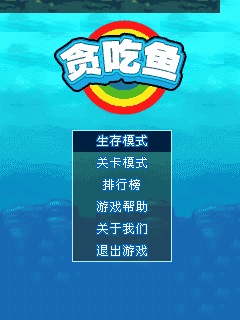
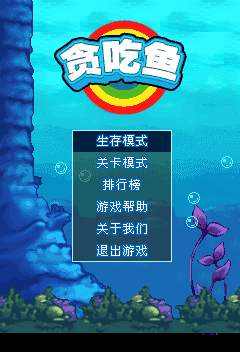
Fix sprite alpha ABI: pitch-strided planes and raw alpha (#171)
The guest sprite blitter advances both image planes by the rounded-up
pitch minus the width at each row break, but decoded kind-3 images
stored their color and alpha planes tight-packed. Every transparent
sprite whose width is not a multiple of four sheared progressively per
row, which painted the Vampire Hunter battle lights as hard-edged
rectangles and stripes and left opaque black squares behind shots. The
16-pixel-multiple sprites of the #187 penguin hid the mismatch.

Decoded alpha was also quantized to 0/255 while the blitter blends the
full 0-255 range through its 5-bit level table, so soft light and
shadow gradients rendered as binary cutouts and fully transparent glow
sprites fell back to opaque color-key blits.

Store both planes pitch-strided, hand over raw alpha bytes, and mirror
the guest blend semantics in the host alpha blit (level
(a*32+128)>>8, packed 565 interpolation). The penguin layout for
width%4==0 and binary-alpha sources is unchanged.

diff --git a/crates/coolbaremu-core/src/machine/drawing.rs b/crates/coolbaremu-core/src/machine/drawing.rs
@@ -1504,7 +1504,9 @@ impl CoolbarMachine {
         let firmware_alpha = transparent && pixel_count <= IMAGE_FIRMWARE_ALPHA_MAX_PIXELS;
         let name_bytes = image_codec_name_bytes();
         let alpha_bytes = if firmware_alpha {
-            decoded.width.saturating_mul(decoded.height)
+            // The alpha plane is pitch-strided like the color plane, so it
+            // needs pitch * height bytes, not width * height.
+            pixel_count
         } else {
             pixel_count.div_ceil(8)
         };
@@ -1544,10 +1546,15 @@ impl CoolbarMachine {
                         let blue = decoded.data[offset + 2] as u16;
                         ((red & 0xf8) << 8) | ((green & 0xfc) << 3) | (blue >> 3)
                     };
-                    let index = y * decoded.width + x;
+                    // The guest sprite blitter strides both planes by the
+                    // rounded-up pitch (it advances by pitch-width per row),
+                    // so rows must be stored pitch-strided, not tight-packed.
+                    // The blend loop quantizes raw alpha bytes through a
+                    // 5-bit level table, so the decoded alpha is handed over
+                    // unchanged instead of a hard 0/255 threshold.
+                    let index = y * pitch + x;
                     self.memory.w16(plane + index * 2, color);
-                    self.memory
-                        .w8(alpha_plane + index, if alpha < 128 { 0 } else { u8::MAX });
+                    self.memory.w8(alpha_plane + index, alpha);
                 }
             }
         } else {
@@ -1767,10 +1774,12 @@ impl CoolbarMachine {
         let kind = self.memory.r8(source + self.image_kind_offset());
         let firmware_alpha = kind == IMAGE_ALPHA_BYTE_KIND || kind == IMAGE_ALPHA_KIND_ALT;
         let name_bytes = image_codec_name_bytes();
+        // Firmware-alpha images store both planes pitch-strided, matching the
+        // guest sprite blitter's row advance (see create_image_from_bytes).
         let (source_base, source_stride, alpha_plane) = if firmware_alpha {
             (
                 source_pixels + name_bytes,
-                source_width as u32,
+                source_pitch,
                 source_pixels + name_bytes + pixel_count * 2,
             )
         } else {
@@ -1805,29 +1814,42 @@ impl CoolbarMachine {
                     ((source_y as u32 + row) * source_stride + source_x as u32 + column) * 2;
                 let color = self.memory.r16(source_base + source_offset);
                 let pixel_index = source_offset / 2;
-                let masked = if firmware_alpha {
-                    transparent
-                        && self.memory.r8(alpha_plane
-                            + (source_y as u32 + row) * source_width as u32
-                            + source_x as u32
-                            + column)
-                            < 128
-                } else {
-                    match mask_kind {
-                        IMAGE_ALPHA_TAG => self.memory.r8(mask_tag + 8 + pixel_index) != 0,
-                        IMAGE_ALPHA_BITS_TAG => {
-                            self.memory.r8(mask_tag + 8 + pixel_index / 8)
-                                & (1 << (pixel_index % 8))
-                                != 0
-                        }
-                        _ => transparent && color == 0,
+                let destination_offset = ((destination_y as u32 + row) * destination_pitch
+                    + destination_x as u32
+                    + column)
+                    * 2;
+                if firmware_alpha {
+                    // Mirror the guest blend loop: 0 skips the pixel, 255
+                    // copies it, anything between blends at the quantized
+                    // 5-bit level the guest's lookup table produces.
+                    let alpha = self.memory.r8(alpha_plane
+                        + (source_y as u32 + row) * source_pitch
+                        + source_x as u32
+                        + column);
+                    let blended = if !transparent || alpha == u8::MAX {
+                        color
+                    } else if alpha == 0 {
+                        continue;
+                    } else {
+                        blend565_with_alpha(
+                            self.memory.r16(destination_pixels + destination_offset),
+                            color,
+                            alpha,
+                        )
+                    };
+                    self.memory
+                        .w16(destination_pixels + destination_offset, blended);
+                    continue;
+                }
+                let masked = match mask_kind {
+                    IMAGE_ALPHA_TAG => self.memory.r8(mask_tag + 8 + pixel_index) != 0,
+                    IMAGE_ALPHA_BITS_TAG => {
+                        self.memory.r8(mask_tag + 8 + pixel_index / 8) & (1 << (pixel_index % 8))
+                            != 0
                     }
+                    _ => transparent && color == 0,
                 };
                 if !masked {
-                    let destination_offset = ((destination_y as u32 + row) * destination_pitch
-                        + destination_x as u32
-                        + column)
-                        * 2;
                     self.memory
                         .w16(destination_pixels + destination_offset, color);
                 }
@@ -2580,6 +2602,30 @@ mod tests {
     }
 }
 
+/// Blend an RGB565 source over a destination at an 8-bit alpha, mirroring the
+/// guest sprite blitter: the alpha is quantized to the 5-bit level its lookup
+/// table produces (level = round(alpha * 32 / 255)) and the packed green / red
+/// -blue halves are interpolated independently before being recombined.
+fn blend565_with_alpha(destination: u16, source: u16, alpha: u8) -> u16 {
+    let level = (u32::from(alpha) * 32 + 128) >> 8;
+    if level == 0 {
+        return destination;
+    }
+    if level >= 32 {
+        return source;
+    }
+    let green_mask = 0x07e0u32;
+    let red_blue_mask = 0xf81fu32;
+    let destination_packed =
+        ((u32::from(destination) & green_mask) << 16) | (u32::from(destination) & red_blue_mask);
+    let source_packed =
+        ((u32::from(source) & green_mask) << 16) | (u32::from(source) & red_blue_mask);
+    let combined = (32 - level) * destination_packed + level * source_packed;
+    let green = (combined >> 21) & green_mask;
+    let red_blue = (combined >> 5) & red_blue_mask;
+    (green | red_blue) as u16
+}
+
 #[cfg(test)]
 mod rendering_tests {
     use super::*;
@@ -3273,10 +3319,17 @@ mod alpha_storage_tests {
 
     #[test]
     fn transparent_sprites_expose_the_firmware_blitter_layout() {
+        // Row 0: transparent red, opaque red, half-alpha red. Row 1: opaque.
+        // Width 3 keeps pitch at 4, which exercises the pitch-strided rows
+        // the guest sprite blitter reads (it advances by pitch-width per row).
         let mut rgba = Vec::new();
         for y in 0..2 {
             for x in 0..3 {
-                let alpha = if (x, y) == (0, 0) { 0 } else { 255 };
+                let alpha = match (x, y) {
+                    (0, _) => 0,
+                    (2, 0) => 128,
+                    _ => 255,
+                };
                 rgba.extend_from_slice(&[255, 0, 0, alpha]);
             }
         }
@@ -3305,23 +3358,33 @@ mod alpha_storage_tests {
                 for y in 0..2 {
                     for x in 0..3 {
                         assert_eq!(
-                            machine.memory.r16(plane + (y * 3 + x) * 2),
+                            machine.memory.r16(plane + (y * pitch + x) * 2),
                             0xf800,
-                            "color plane must stay tightly packed"
+                            "color plane rows must follow the rounded-up pitch"
                         );
                     }
                 }
                 let alpha_plane = plane + 2 * pitch * 2;
                 assert_eq!(machine.memory.r8(alpha_plane), 0);
-                for index in 1..6 {
-                    assert_eq!(machine.memory.r8(alpha_plane + index), u8::MAX);
+                assert_eq!(machine.memory.r8(alpha_plane + 1), u8::MAX);
+                assert_eq!(machine.memory.r8(alpha_plane + 2), 128);
+                assert_eq!(machine.memory.r8(alpha_plane + pitch), 0);
+                for offset in 1..3 {
+                    assert_eq!(machine.memory.r8(alpha_plane + pitch + offset), u8::MAX);
                 }
-                assert_eq!(machine.allocation_size(pixels), Some(48));
                 machine.fill_screen_rect(0, 0, 3, 2, 0x001f);
                 machine.blit_image(SCREEN_IMAGE_STRUCT, image, 0, 0, 3, 2, 0, 0, true);
                 let frame = machine.frame_pixels();
-                assert_eq!(&frame[..3], &[0x0000ff, 0xff0000, 0xff0000]);
-                assert_eq!(&frame[240..243], &[0xff0000, 0xff0000, 0xff0000]);
+                assert_eq!(
+                    &frame[..3],
+                    &[0x0000ff, 0xff0000, 0x7b007b],
+                    "transparent pixels skip, opaque copy, half alpha blends"
+                );
+                assert_eq!(
+                    &frame[240..243],
+                    &[0x0000ff, 0xff0000, 0xff0000],
+                    "row 1 keeps the same transparent/opaque pattern"
+                );
             }
         }
     }

diff --git a/docs/Game-Compatibility.md b/docs/Game-Compatibility.md
@@ -222,7 +222,7 @@ not provide the original server's content or a real carrier payment service.
 | 93 | `A/联网泡泡龙(新版)V101.CBE` | 240×320 | <img src="images/A/联网泡泡龙(新版)V101.png" width="120" alt="联网泡泡龙(新版)V101 idle frame"> | Blocked: dead server | Ready | Login screen renders and responds to taps, soft keys and arrows; 快速登陆 opens the retired lobby channel `ghlc.51coolbar.com:20050`, so rooms and play are unobtainable |
 | 94 | `A/联网麻将(强推)V101.CBE` | 240×320 | <img src="images/A/联网麻将(强推)V101.png" width="120" alt="联网麻将(强推)V101 idle frame"> | Blocked: dead server | Ready | Login screen renders and responds to taps, soft keys and arrows; 快速登陆 opens the retired lobby channel `ghlc.51coolbar.com:20050`, so rooms and play are unobtainable |
 | 95 | `A/象棋之唐伯虎点秋香V10.CBE` | 240×320 | <img src="images/A/象棋之唐伯虎点秋香V10.png" width="120" alt="象棋之唐伯虎点秋香V10 idle frame"> | Blocked: dead server | Ready | The loading overlay clears and the full Xiangqi board renders with both sides' pieces once id-based image creation reaches LCD slot 49 correctly (issue #148); the hand cursor, piece selection, in-game undo/save menu and move path all respond, but every play mode first opens the title's own 资费说明/SMS purchase page and the simulated purchase then posts to the retired `namr.51coolbar.com` service, leaving the board on 请等候 |
-| 96 | `A/贪吃鱼(经典).CBE` | 240×320 | <img src="images/A/贪吃鱼(经典).png" width="120" alt="贪吃鱼(经典) idle frame"> | Not assessed | Ready | Title/menu, help text and basic selection checked; the idle frame moved one animation step now that the title animation parses (issue #114); complete gameplay unverified |
+| 96 | `A/贪吃鱼(经典).CBE` | 240×352 | <img src="images/A/贪吃鱼(经典).png" width="120" alt="贪吃鱼(经典) idle frame"> | Not assessed | Ready | Title/menu, help text and basic selection checked; the idle frame moved one animation step now that the title animation parses (issue #114); the underwater backdrop now renders its full 352-row artwork with the pitch-correct sprite layout, which also resolves the previously mis-detected 240×320 LCD size; complete gameplay unverified |
 | 97 | `A/超级八十分(新品).CBE` | 240×320 | <img src="images/A/超级八十分(新品).png" width="120" alt="超级八十分(新品) idle frame"> | Not assessed | Ready | Character profiles display and switch (portraits are grey), but Confirm, 5, the left soft key and a double tap on 确定 never leave character select and no deal appears by 1,500 frames (issue #150) |
 | 98 | `A/超级泡泡龙(新品).CBE` | 240×320 | <img src="images/A/超级泡泡龙(新品).png" width="120" alt="超级泡泡龙(新品) idle frame"> | Touch / keys | Ready | Title/menu, help/back, level selection and game board verified through 2,000 frames; dismiss the startup offer before navigating. Firing effects, full gameplay and paid progression unverified |
 | 99 | `A/超级泡泡龙V10.CBE` | 240×320 | <img src="images/A/超级泡泡龙V10.png" width="120" alt="超级泡泡龙V10 idle frame"> | Touch / keys | Ready | Title/menu, help/back, game board and numeric-5 firing with bubble removal/score increase verified; repeated input through 2,000 frames remains Ready. Full gameplay and paid progression unverified |
@@ -267,7 +267,7 @@ not provide the original server's content or a real carrier payment service.
 | 8 | `B/割绳子.CBE` | 240×400 | <img src="images/B/割绳子.png" width="120" alt="割绳子 idle frame"> | No known requirement | Ready | Playable at the default 100M instructions/frame budget: the ARMv5 CLZ fix laid out the whole 4×5 level-select grid (0/60 star counter, back button), a tap on the first level tile runs a legitimate ~35.4M-instruction loading frame — the guest draws ten wipe steps of full-screen quadrant blits inside one screen callback while loading the level — and reaches 1-1, a pointer drag across the rope cuts it, the candy falls through all three stars into Om Nom, and the 太棒了! settlement, 下一关 into the two-rope 1-2 and the in-game menu respond; the 20M per-frame capture budget was too tight for that loading frame (issue #168) |
 | 9 | `B/割绳子冬季版.CBE` | 240×400 | <img src="images/B/割绳子冬季版.png" width="120" alt="割绳子冬季版 idle frame"> | No known requirement | Ready | Playable at the default 100M instructions/frame budget: the ARMv5 CLZ fix laid out the whole 4×5 level-select grid, a tap on the first tile runs a legitimate ~35.0M-instruction loading frame (the same wipe-driven loading screen as 割绳子) and reaches the winter 1-1, two rope cuts (diagonal, then vertical) drop the candy through the stars into Om Nom, and the 精彩! settlement with the 新记录 stamp and the menu respond; the 20M per-frame capture budget was too tight for that loading frame (issue #169) |
 | 10 | `B/动感骰子.CBE` | 240×400 | <img src="images/B/动感骰子.png" width="120" alt="动感骰子 idle frame"> | No known requirement | Ready | The native exit dialog cancels and the gear opens settings with a dice preview, but returning still leaves an empty table and no dice or roll result by 580 frames (issue #170) |
-| 11 | `B/吸血鬼猎人.CBE` | 400×240 | <img src="images/B/吸血鬼猎人.png" width="120" alt="吸血鬼猎人 idle frame"> | No known requirement | Ready | Battle loads with UI, background and turret and firing consumes ammo (00500→00477), but the lighting is hard-edged yellow rectangles and opaque black squares appear after shots (issue #171) |
+| 11 | `B/吸血鬼猎人.CBE` | 400×240 | <img src="images/B/吸血鬼猎人.png" width="120" alt="吸血鬼猎人 idle frame"> | No known requirement | Ready | Battle loads with UI, background and turret; firing consumes ammo (00500→00477) and the lamp glow plus ground shadows now render with smooth alpha instead of hard-edged rectangles and black squares (issue #171); direction holds, continued firing and the return-to-menu dialog were replayed headlessly, complete enemy combat still unverified |
 | 12 | `B/在线书城.CBE` | 240×400 | <img src="images/B/在线书城.png" width="120" alt="在线书城 offline error prompt"> | Required | Halted | Offline failure prompt and normal timed exit verified; scrolling/font differences remain, online reading unverified |
 | 13 | `B/在线音乐.CBE` | 240×400 | <img src="images/B/在线音乐.png" width="120" alt="在线音乐 idle frame"> | Required | Ready | Search controls, toolbars and add prompt render; prompt scrolls with current font metrics; online operation unverified |
 | 14 | `B/士兵突袭.CBE` | 400×240 | <img src="images/B/士兵突袭.png" width="120" alt="士兵突袭 idle frame"> | No known requirement | Ready | Offscreen glyph-cache text restored; left/right movement, jumping/climbing and exit-dialog cancellation checked through 820 frames. Weapon switching, kills and full campaign unverified |

diff --git a/docs/architecture.md b/docs/architecture.md
@@ -284,10 +284,14 @@ fully transparent pixels as RGB565 zero so guest transforms that copy only pixel
 words retain color-key transparency. Other decoded streams preserve their RGB
 components for opaque drawing. Sprite-sized images with transparency are laid out
 the way the guest firmware sprite blitter expects them: a UCS-2 codec name
-(`coolbar_png`), a tightly packed RGB565 plane, and one alpha byte per pixel at
-the offset the blitter derives from the rounded-up row pitch. Their image kind
+(`coolbar_png`), an RGB565 plane whose rows follow the rounded-up pitch, and one
+raw alpha byte per pixel at the offset the blitter derives from that pitch. Both
+planes advance by the pitch-width delta per row, so sprites whose width is not a
+multiple of four are stored pitch-strided, not tightly packed. Their image kind
 selects the blitter's per-pixel blend path, so transparent pixels no longer turn
-black when the guest draws a sprite itself. Larger transparent images keep the
+black when the guest draws a sprite itself, and the decoded 0–255 alpha reaches
+the blitter unchanged, letting its 5-bit level table reproduce soft light and
+shadow gradients. Larger transparent images keep the
 host-side representation: a separate bit-packed transparency mask after the pixel
 data in the same allocation, marked with a host tag. Alpha blits consult either
 representation and preserve opaque black pixels. Opaque images and full-screen

diff --git a/docs/Game-File-Formats.md b/docs/Game-File-Formats.md
@@ -100,11 +100,15 @@ streams retain their RGB components for opaque drawing; alpha drawing uses the
 separate mask, including for opaque black pixels.
 
 Decoded sprite-sized transparent images are handed to the guest in the layout
-its sprite blitter reads: the UCS-2 codec name `coolbar_png`, a tightly packed
-RGB565 plane, and one alpha byte per pixel at `name_bytes + 2 * pitch * height`
-(`pitch` is the width rounded up to four). Larger transparent images and opaque
-images use the host bit-packed mask instead, keeping titles with many live
-images inside the guest heap.
+its sprite blitter reads: the UCS-2 codec name `coolbar_png`, an RGB565 plane
+whose rows follow the rounded-up pitch, and one raw alpha byte per pixel at
+`name_bytes + 2 * pitch * height` (`pitch` is the width rounded up to four;
+both planes advance by `pitch - width` bytes per row, so widths that are not a
+multiple of four must not be stored tightly packed). Alpha bytes keep the
+decoded 0–255 range; the guest blitter skips 0, copies 255, and blends the rest
+through its 5-bit level table. Larger transparent images and opaque images use
+the host bit-packed mask instead, keeping titles with many live images inside
+the guest heap.
 
 - **Pixel format**: RGB565 (16-bit, 5-6-5 bit layout)
 - **Resolution**: Active LCD dimensions; supported portrait modes are 176×220,
